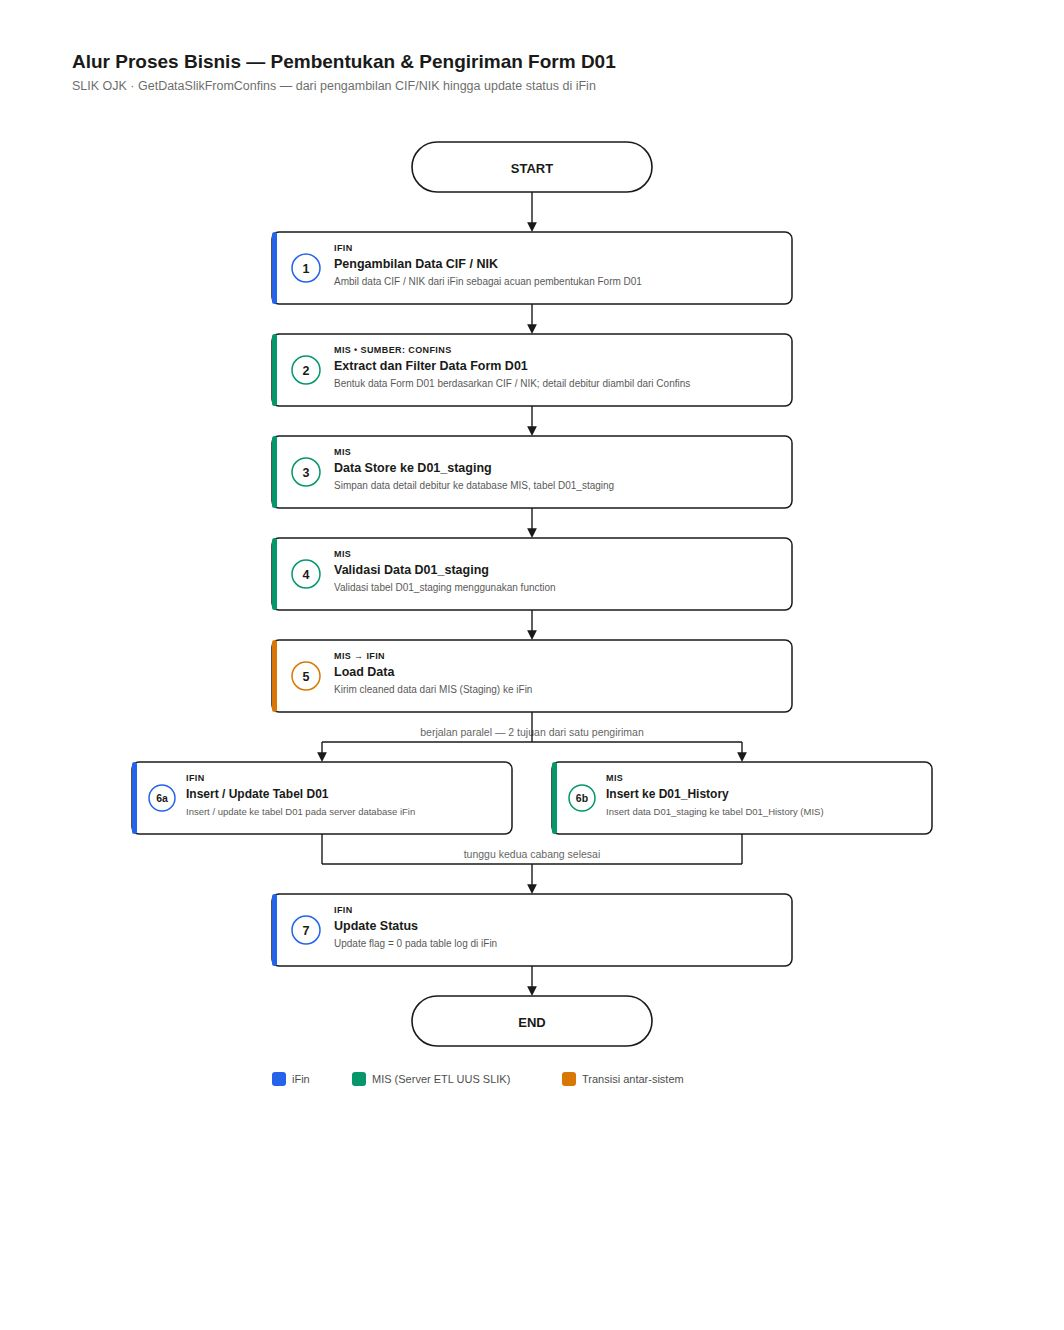
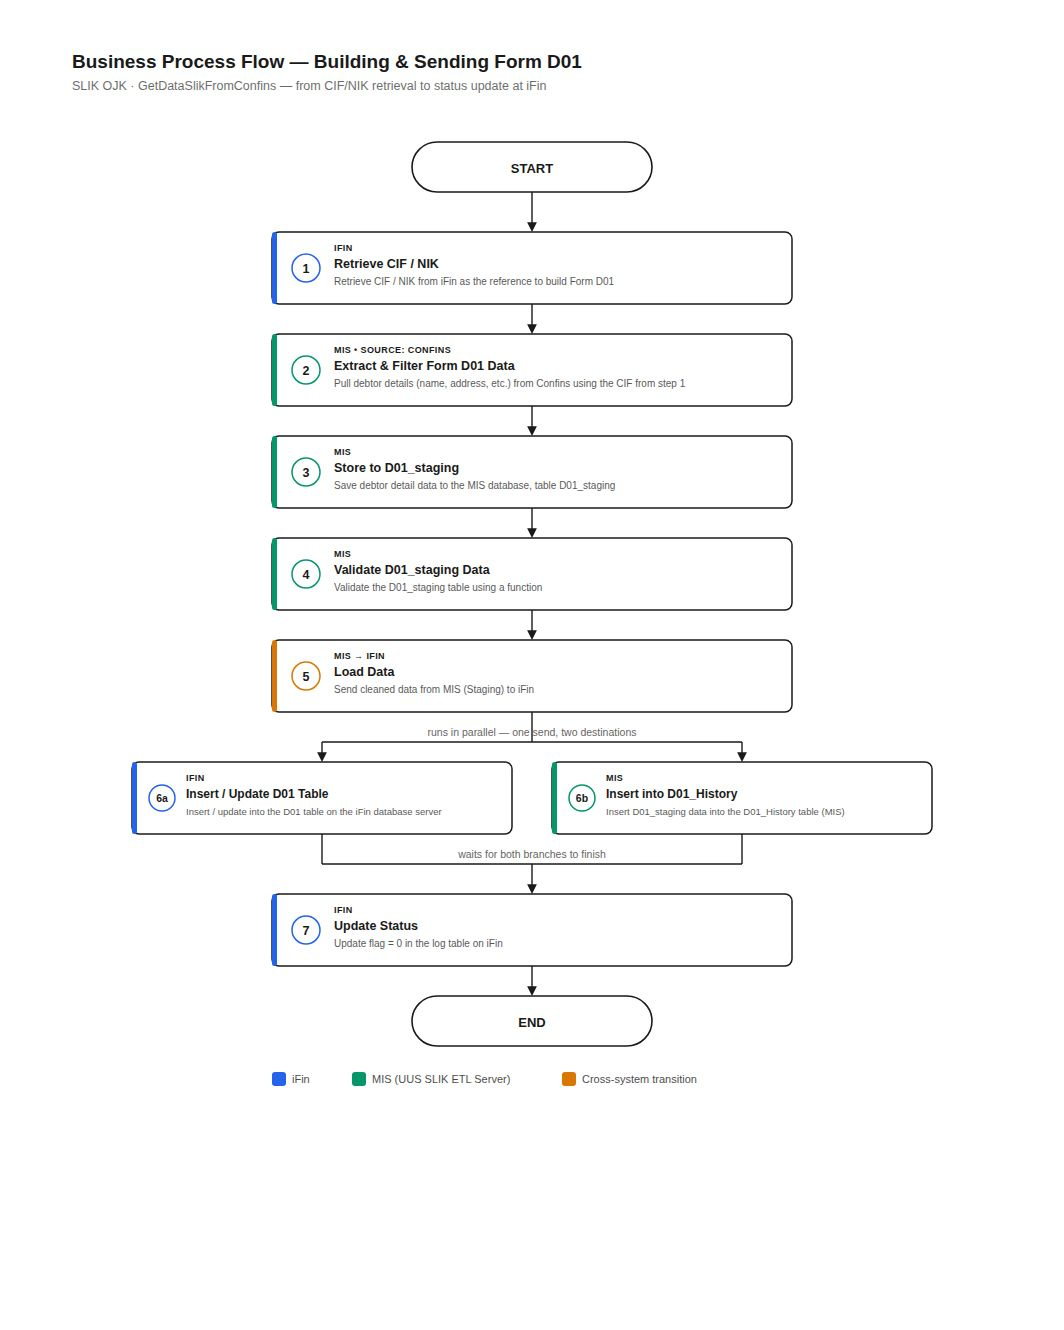
Translate D01 business flow to English, clarify step 2 wording
Step 2 now explains the Confins lookup more concretely: pulling debtor
details (name, address, etc.) using the CIF obtained in step 1, rather
than the vaguer 'build Form D01 based on CIF/NIK' phrasing.

diff --git a/diagrams/slik-d01-business-flow.html b/diagrams/slik-d01-business-flow.html
@@ -1,8 +1,8 @@
 <!DOCTYPE html>
-<html lang="id">
+<html lang="en">
 <head>
 <meta charset="UTF-8">
-<title>Alur Proses Bisnis — Pembentukan &amp; Pengiriman Form D01</title>
+<title>Business Process Flow — Building &amp; Sending Form D01</title>
 <style>
   :root { color-scheme: light; }
   html, body {
@@ -25,7 +25,7 @@
 </head>
 <body>
   <figure>
-    <svg viewBox="0 0 1000 1230" role="img" aria-label="Alur proses bisnis pembentukan dan pengiriman Form D01: dari pengambilan CIF/NIK di iFin, pembentukan data dari Confins, penyimpanan dan validasi di staging MIS, pengiriman data ke iFin yang bercabang jadi dua tujuan paralel — insert/update tabel D01 di iFin dan insert ke history di MIS — lalu menunggu keduanya selesai sebelum update status di iFin.">
+    <svg viewBox="0 0 1000 1230" role="img" aria-label="Business process flow for building and sending Form D01: from CIF/NIK retrieval at iFin, assembling debtor detail data from Confins, storing and validating in MIS staging, sending data to iFin which forks into two parallel destinations — insert/update the D01 table at iFin and insert into history at MIS — then waits for both branches before updating status at iFin.">
       <defs>
         <marker id="arrow" viewBox="0 0 10 10" refX="8" refY="5" markerWidth="7" markerHeight="7" orient="auto-start-reverse">
           <path d="M 0 0 L 10 5 L 0 10 z" fill="currentColor"/>
@@ -33,8 +33,8 @@
       </defs>
 
       <!-- Title -->
-      <text x="40" y="36" font-size="19" font-weight="700">Alur Proses Bisnis — Pembentukan &amp; Pengiriman Form D01</text>
-      <text x="40" y="58" font-size="12.5" opacity="0.65">SLIK OJK · GetDataSlikFromConfins — dari pengambilan CIF/NIK hingga update status di iFin</text>
+      <text x="40" y="36" font-size="19" font-weight="700">Business Process Flow — Building &amp; Sending Form D01</text>
+      <text x="40" y="58" font-size="12.5" opacity="0.65">SLIK OJK · GetDataSlikFromConfins — from CIF/NIK retrieval to status update at iFin</text>
 
       <!-- Start -->
       <rect x="380" y="110" width="240" height="50" rx="25" fill="none" stroke="currentColor" stroke-width="1.6"/>
@@ -47,8 +47,8 @@
       <circle cx="274" cy="236.0" r="14" fill="none" stroke="#2563eb" stroke-width="1.5"/>
       <text x="274" y="240.5" text-anchor="middle" font-size="12.5" font-weight="700" fill="#2563eb">1</text>
       <text x="302" y="219" font-size="9" font-weight="650" letter-spacing="0.4" fill="#2563eb">IFIN</text>
-      <text x="302" y="236" font-size="12.5" font-weight="650">Pengambilan Data CIF / NIK</text>
-      <text x="302" y="253" font-size="10" opacity="0.75">Ambil data CIF / NIK dari iFin sebagai acuan pembentukan Form D01</text>
+      <text x="302" y="236" font-size="12.5" font-weight="650">Retrieve CIF / NIK</text>
+      <text x="302" y="253" font-size="10" opacity="0.75">Retrieve CIF / NIK from iFin as the reference to build Form D01</text>
       <line x1="500.0" y1="272" x2="500.0" y2="300" stroke="currentColor" stroke-width="1.4" marker-end="url(#arrow)"/>
 
       <!-- Step 2 -->
@@ -56,9 +56,9 @@
       <rect x="240" y="302" width="5" height="72" rx="2.5" fill="#059669"/>
       <circle cx="274" cy="338.0" r="14" fill="none" stroke="#059669" stroke-width="1.5"/>
       <text x="274" y="342.5" text-anchor="middle" font-size="12.5" font-weight="700" fill="#059669">2</text>
-      <text x="302" y="321" font-size="9" font-weight="650" letter-spacing="0.4" fill="#059669">MIS  •  SUMBER: CONFINS</text>
-      <text x="302" y="338" font-size="12.5" font-weight="650">Extract dan Filter Data Form D01</text>
-      <text x="302" y="355" font-size="10" opacity="0.75">Bentuk data Form D01 berdasarkan CIF / NIK; detail debitur diambil dari Confins</text>
+      <text x="302" y="321" font-size="9" font-weight="650" letter-spacing="0.4" fill="#059669">MIS  •  SOURCE: CONFINS</text>
+      <text x="302" y="338" font-size="12.5" font-weight="650">Extract &amp; Filter Form D01 Data</text>
+      <text x="302" y="355" font-size="10" opacity="0.75">Pull debtor details (name, address, etc.) from Confins using the CIF from step 1</text>
       <line x1="500.0" y1="374" x2="500.0" y2="402" stroke="currentColor" stroke-width="1.4" marker-end="url(#arrow)"/>
 
       <!-- Step 3 -->
@@ -67,8 +67,8 @@
       <circle cx="274" cy="440.0" r="14" fill="none" stroke="#059669" stroke-width="1.5"/>
       <text x="274" y="444.5" text-anchor="middle" font-size="12.5" font-weight="700" fill="#059669">3</text>
       <text x="302" y="423" font-size="9" font-weight="650" letter-spacing="0.4" fill="#059669">MIS</text>
-      <text x="302" y="440" font-size="12.5" font-weight="650">Data Store ke D01_staging</text>
-      <text x="302" y="457" font-size="10" opacity="0.75">Simpan data detail debitur ke database MIS, tabel D01_staging</text>
+      <text x="302" y="440" font-size="12.5" font-weight="650">Store to D01_staging</text>
+      <text x="302" y="457" font-size="10" opacity="0.75">Save debtor detail data to the MIS database, table D01_staging</text>
       <line x1="500.0" y1="476" x2="500.0" y2="504" stroke="currentColor" stroke-width="1.4" marker-end="url(#arrow)"/>
 
       <!-- Step 4 -->
@@ -77,8 +77,8 @@
       <circle cx="274" cy="542.0" r="14" fill="none" stroke="#059669" stroke-width="1.5"/>
       <text x="274" y="546.5" text-anchor="middle" font-size="12.5" font-weight="700" fill="#059669">4</text>
       <text x="302" y="525" font-size="9" font-weight="650" letter-spacing="0.4" fill="#059669">MIS</text>
-      <text x="302" y="542" font-size="12.5" font-weight="650">Validasi Data D01_staging</text>
-      <text x="302" y="559" font-size="10" opacity="0.75">Validasi tabel D01_staging menggunakan function</text>
+      <text x="302" y="542" font-size="12.5" font-weight="650">Validate D01_staging Data</text>
+      <text x="302" y="559" font-size="10" opacity="0.75">Validate the D01_staging table using a function</text>
       <line x1="500.0" y1="578" x2="500.0" y2="606" stroke="currentColor" stroke-width="1.4" marker-end="url(#arrow)"/>
 
       <!-- Step 5 -->
@@ -88,14 +88,14 @@
       <text x="274" y="648.5" text-anchor="middle" font-size="12.5" font-weight="700" fill="#d97706">5</text>
       <text x="302" y="627" font-size="9" font-weight="650" letter-spacing="0.4" fill="#d97706">MIS → IFIN</text>
       <text x="302" y="644" font-size="12.5" font-weight="650">Load Data</text>
-      <text x="302" y="661" font-size="10" opacity="0.75">Kirim cleaned data dari MIS (Staging) ke iFin</text>
+      <text x="302" y="661" font-size="10" opacity="0.75">Send cleaned data from MIS (Staging) to iFin</text>
 
       <!-- Fork -->
       <line x1="500" y1="680" x2="500" y2="710" stroke="currentColor" stroke-width="1.4"/>
       <line x1="290.0" y1="710" x2="710.0" y2="710" stroke="currentColor" stroke-width="1.4"/>
       <line x1="290.0" y1="710" x2="290.0" y2="728" stroke="currentColor" stroke-width="1.4" marker-end="url(#arrow)"/>
       <line x1="710.0" y1="710" x2="710.0" y2="728" stroke="currentColor" stroke-width="1.4" marker-end="url(#arrow)"/>
-      <text x="500" y="704" text-anchor="middle" font-size="10.5" opacity="0.7">berjalan paralel — 2 tujuan dari satu pengiriman</text>
+      <text x="500" y="704" text-anchor="middle" font-size="10.5" opacity="0.7">runs in parallel — one send, two destinations</text>
 
       <!-- Step 6a -->
       <rect x="100" y="730" width="380" height="72" rx="7" fill="none" stroke="currentColor" stroke-width="1.5"/>
@@ -103,8 +103,8 @@
       <circle cx="130" cy="766.0" r="13" fill="none" stroke="#2563eb" stroke-width="1.5"/>
       <text x="130" y="770.0" text-anchor="middle" font-size="10.5" font-weight="700" fill="#2563eb">6a</text>
       <text x="154" y="749" font-size="9" font-weight="650" letter-spacing="0.4" fill="#2563eb">IFIN</text>
-      <text x="154" y="766" font-size="12" font-weight="650">Insert / Update Tabel D01</text>
-      <text x="154" y="783" font-size="9.5" opacity="0.75">Insert / update ke tabel D01 pada server database iFin</text>
+      <text x="154" y="766" font-size="12" font-weight="650">Insert / Update D01 Table</text>
+      <text x="154" y="783" font-size="9.5" opacity="0.75">Insert / update into the D01 table on the iFin database server</text>
 
       <!-- Step 6b -->
       <rect x="520" y="730" width="380" height="72" rx="7" fill="none" stroke="currentColor" stroke-width="1.5"/>
@@ -112,14 +112,14 @@
       <circle cx="550" cy="766.0" r="13" fill="none" stroke="#059669" stroke-width="1.5"/>
       <text x="550" y="770.0" text-anchor="middle" font-size="10.5" font-weight="700" fill="#059669">6b</text>
       <text x="574" y="749" font-size="9" font-weight="650" letter-spacing="0.4" fill="#059669">MIS</text>
-      <text x="574" y="766" font-size="12" font-weight="650">Insert ke D01_History</text>
-      <text x="574" y="783" font-size="9.5" opacity="0.75">Insert data D01_staging ke tabel D01_History (MIS)</text>
+      <text x="574" y="766" font-size="12" font-weight="650">Insert into D01_History</text>
+      <text x="574" y="783" font-size="9.5" opacity="0.75">Insert D01_staging data into the D01_History table (MIS)</text>
 
       <!-- Converge -->
       <line x1="290.0" y1="802" x2="290.0" y2="832" stroke="currentColor" stroke-width="1.4"/>
       <line x1="710.0" y1="802" x2="710.0" y2="832" stroke="currentColor" stroke-width="1.4"/>
       <line x1="290.0" y1="832" x2="710.0" y2="832" stroke="currentColor" stroke-width="1.4"/>
-      <text x="500" y="826" text-anchor="middle" font-size="10.5" opacity="0.7">tunggu kedua cabang selesai</text>
+      <text x="500" y="826" text-anchor="middle" font-size="10.5" opacity="0.7">waits for both branches to finish</text>
       <line x1="500" y1="832" x2="500" y2="860" stroke="currentColor" stroke-width="1.4" marker-end="url(#arrow)"/>
 
       <!-- Step 7 -->
@@ -129,7 +129,7 @@
       <text x="274" y="902.5" text-anchor="middle" font-size="12.5" font-weight="700" fill="#2563eb">7</text>
       <text x="302" y="881" font-size="9" font-weight="650" letter-spacing="0.4" fill="#2563eb">IFIN</text>
       <text x="302" y="898" font-size="12.5" font-weight="650">Update Status</text>
-      <text x="302" y="915" font-size="10" opacity="0.75">Update flag = 0 pada table log di iFin</text>
+      <text x="302" y="915" font-size="10" opacity="0.75">Update flag = 0 in the log table on iFin</text>
       <line x1="500" y1="934" x2="500" y2="962" stroke="currentColor" stroke-width="1.4" marker-end="url(#arrow)"/>
 
       <!-- End -->
@@ -140,13 +140,13 @@
       <rect x="240" y="1040" width="14" height="14" rx="3" fill="#2563eb"/>
       <text x="260" y="1051" font-size="11" opacity="0.8">iFin</text>
       <rect x="320" y="1040" width="14" height="14" rx="3" fill="#059669"/>
-      <text x="340" y="1051" font-size="11" opacity="0.8">MIS (Server ETL UUS SLIK)</text>
+      <text x="340" y="1051" font-size="11" opacity="0.8">MIS (UUS SLIK ETL Server)</text>
       <rect x="530" y="1040" width="14" height="14" rx="3" fill="#d97706"/>
-      <text x="550" y="1051" font-size="11" opacity="0.8">Transisi antar-sistem</text>
+      <text x="550" y="1051" font-size="11" opacity="0.8">Cross-system transition</text>
     </svg>
 
     <figcaption>
-      Alur bisnis pembentukan Form D01 dari sisi non-teknis (di luar detail komponen SSIS): <b>iFin</b> memberi CIF/NIK sebagai pemicu, <b>MIS</b> membentuk &amp; memvalidasi data (mengambil detail debitur dari <b>Confins</b>) di tabel <code>D01_staging</code>, lalu dikirim ke <b>iFin</b> pada langkah <b>5. Load Data</b>. Pengiriman ini punya <b>dua tujuan sekaligus</b> (mirip pola Multicast pada diagram SSIS teknis) — <b>iFin</b> meng-insert/update tabel <code>D01</code> sementara <b>MIS</b> secara paralel meng-insert salinan ke <code>D01_History</code>. Baru setelah <b>kedua cabang selesai</b>, status di-update di iFin (langkah 7) — bukan bagian dari cabang paralel.
+      Business flow for building Form D01, from a non-technical view (outside SSIS component detail): <b>iFin</b> provides the CIF/NIK as the trigger, <b>MIS</b> assembles &amp; validates the data (pulling debtor details from <b>Confins</b>) into the <code>D01_staging</code> table, then sends it to <b>iFin</b> at step <b>5. Load Data</b>. That send has <b>two destinations at once</b> (similar to the Multicast pattern in the technical SSIS diagram) — <b>iFin</b> inserts/updates the <code>D01</code> table while <b>MIS</b> in parallel inserts a copy into <code>D01_History</code>. Only once <b>both branches finish</b> is the status updated at iFin (step 7) — it is not part of the parallel branch.
     </figcaption>
   </figure>
 </body>
